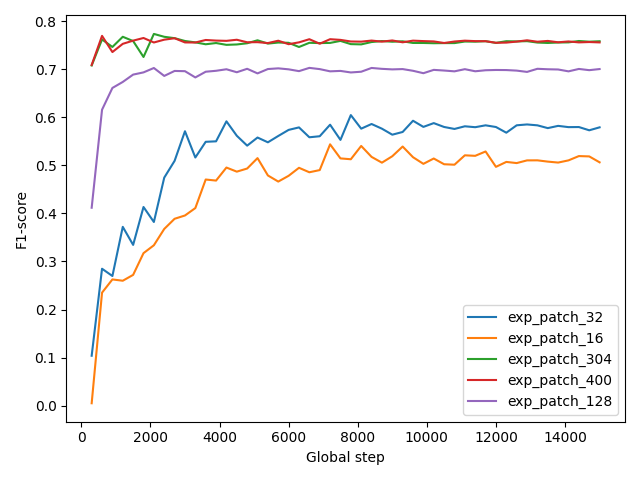
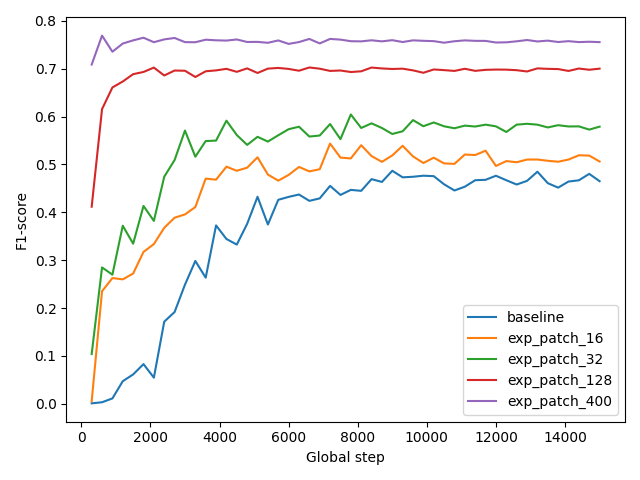
improve metrics plots

diff --git a/graph.py b/graph.py
@@ -5,22 +5,22 @@ import matplotlib.pyplot as plt
 from tensorboard.backend.event_processing.event_accumulator import EventAccumulator
 
 
-def main(metric, name, prefix):
+def main(metric, name, prefix, additional, limit):
     runs = os.listdir("runs")
-    runs = list(filter(lambda run: run.startswith(prefix), runs))
+    runs = list(filter(lambda run: run.startswith(prefix) or run == additional, runs))
+    runs = sorted(runs, key=lambda run: (len(run), run))
 
     plot_data = []
     for run in runs:
-        if "exp" in run:
-            print(f"Loading run {run}")
-            file = os.listdir(f"runs/{run}")[0]
-            path = f"runs/{run}/{file}"
+        print(f"Loading run {run}")
+        file = os.listdir(f"runs/{run}")[0]
+        path = f"runs/{run}/{file}"
 
-            event_acc = EventAccumulator(path)
-            event_acc.Reload()
+        event_acc = EventAccumulator(path)
+        event_acc.Reload()
 
-            x = [(s.step, s.value) for s in event_acc.Scalars(metric)]
-            plot_data.append(x)
+        x = [(s.step, s.value) for s in event_acc.Scalars(metric)]
+        plot_data.append(x)
 
     # Create a plot
     print("Creating plot")
@@ -45,15 +45,20 @@ def main(metric, name, prefix):
     plt.legend([runs[i] for i in range(len(plot_data))])
     plt.xlabel("Global step")
     plt.ylabel(name)
+    if limit:
+        plt.ylim(0.65, 0.85)
+
     plt.tight_layout()
     plt.savefig(f"figures/{prefix}_{metric}.png")
 
 
 if __name__ == "__main__":
     ap = argparse.ArgumentParser()
-    ap.add_argument("-m", "--metric", type=str)
-    ap.add_argument("-n", "--name", type=str)
+    ap.add_argument("-m", "--metric", type=str, default="inference_f1")
+    ap.add_argument("-n", "--name", type=str, default="F1-score")
     ap.add_argument("-p", "--prefix", type=str)
+    ap.add_argument("-a", "--additional", type=str, default="baseline")
+    ap.add_argument("-l", "--limit", action="store_true")
 
     args = ap.parse_args()
-    main(args.metric, args.name, args.prefix)
+    main(args.metric, args.name, args.prefix, args.additional, args.limit)
